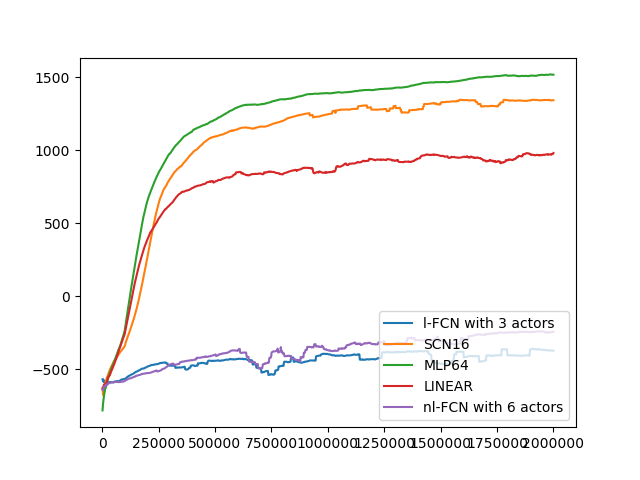
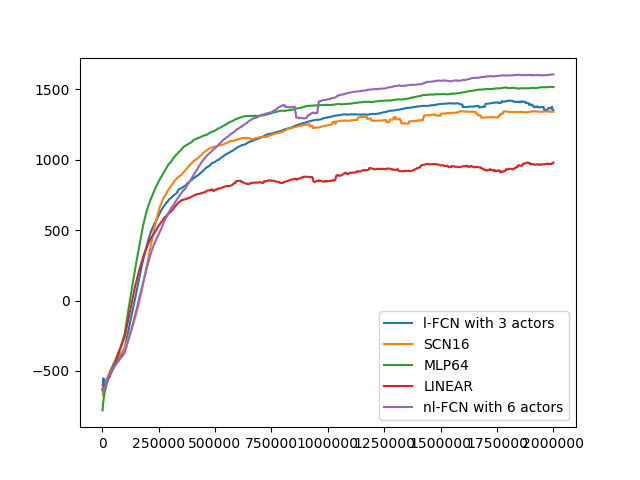
.

diff --git a/plot.py b/plot.py
@@ -1,15 +1,15 @@
 import numpy as np
 import matplotlib.pyplot as plt
 
-env_id = "HalfCheetah-v2"
-seeds = [1]
+env_id = "Walker2d-v2"
+seeds = [1,2,3,4,5]
 reward_scales=[1.0]
 for seed in seeds:
     for reward_scale in reward_scales:
         #fcn1_rewards = np.loadtxt('./baselines/fcn1/data/'+env_id+'_s'+str(seed)+'_r'+str(reward_scale)+'_rew.txt') * (1 / reward_scale)
         #fcn1_ts = np.loadtxt('./baselines/fcn1/data/'+env_id+'_s'+str(seed)+'_r'+str(reward_scale)+'_ts.txt')
-        fcn2_rewards = np.loadtxt('./baselines/fcn2/data/'+env_id+'_s'+str(seed)+'_r'+str(reward_scale)+'_rew.txt') * (1 / reward_scale)
-        fcn2_ts = np.loadtxt('./baselines/fcn2/data/'+env_id+'_s'+str(seed)+'_r'+str(reward_scale)+'_ts.txt')
+        #fcn2_rewards = np.loadtxt('./baselines/fcn2/data/'+env_id+'_s'+str(seed)+'_r'+str(reward_scale)+'_rew.txt') * (1 / reward_scale)
+        #fcn2_ts = np.loadtxt('./baselines/fcn2/data/'+env_id+'_s'+str(seed)+'_r'+str(reward_scale)+'_ts.txt')
         fcn_rewards = np.loadtxt('./baselines/fcn/data/'+env_id+'_s'+str(seed)+'_r'+str(reward_scale)+'_rew.txt') * (1 / reward_scale)
         fcn_ts = np.loadtxt('./baselines/fcn/data/'+env_id+'_s'+str(seed)+'_r'+str(reward_scale)+'_ts.txt')
 
@@ -19,8 +19,8 @@ for seed in seeds:
         mlp_ts = np.loadtxt('./baselines/ppo1/data/'+env_id+'_s'+str(seed)+'_r'+str(reward_scale)+'_ts.txt')
         lin_rewards = np.loadtxt('./baselines/linear/data/'+env_id+'_s'+str(seed)+'_r'+str(reward_scale)+'_rew.txt')* (1 / reward_scale)
         lin_ts = np.loadtxt('./baselines/linear/data/'+env_id+'_s'+str(seed)+'_r'+str(reward_scale)+'_ts.txt')
-        #nlfcn_rewards = np.loadtxt('./baselines/nlfcn/data/'+env_id+'_s'+str(seed)+'_r'+str(reward_scale)+'_rew.txt')* (1 / reward_scale)
-        #nlfcn_ts = np.loadtxt('./baselines/nlfcn/data/'+env_id+'_s'+str(seed)+'_r'+str(reward_scale)+'_ts.txt')
+        nlfcn_rewards = np.loadtxt('./baselines/nlfcn/data/'+env_id+'_s'+str(seed)+'_r'+str(reward_scale)+'_rew.txt')* (1 / reward_scale)
+        nlfcn_ts = np.loadtxt('./baselines/nlfcn/data/'+env_id+'_s'+str(seed)+'_r'+str(reward_scale)+'_ts.txt')
 
 
 
@@ -31,9 +31,9 @@ for seed in seeds:
         ax.plot(scn_ts, scn_rewards,  label='SCN16')
         ax.plot(mlp_ts, mlp_rewards,  label='MLP64')
         ax.plot(lin_ts, lin_rewards,  label='LINEAR')
-        ax.plot(fcn2_ts, fcn2_rewards,  label='l-FCN2 with 1 actors')
+        #ax.plot(fcn2_ts, fcn2_rewards,  label='l-FCN2 with 1 actors')
 
-        #ax.plot(nlfcn_ts, nlfcn_rewards,  label='nl-FCN with 6 actors')
+        ax.plot(nlfcn_ts, nlfcn_rewards,  label='nl-FCN with 6 actors')
 
 
         legend = ax.legend(loc='lower right')

diff --git a/baselines/fcn2/pposgd_simple.py b/baselines/fcn2/pposgd_simple.py
@@ -111,7 +111,7 @@ def learn(env, policy_fn, *,
     ch = pi.cpdtype.sample_placeholder([None])
     ac = pi.pdtype.sample_placeholder([None])
 
-    old_pi_pd = oldpi.pd_given_ch(ch,ac_space)
+    old_pi_pd = oldpi.pd
 
     kloldnew = old_pi_pd.kl(pi.pd)
     ent = pi.pd.entropy()
